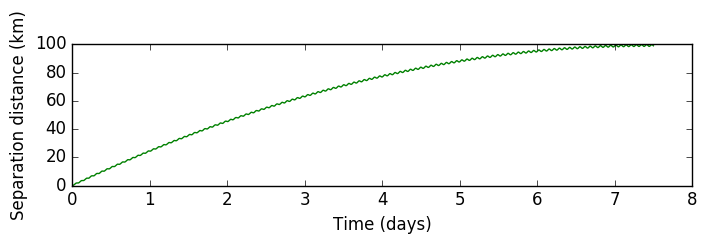
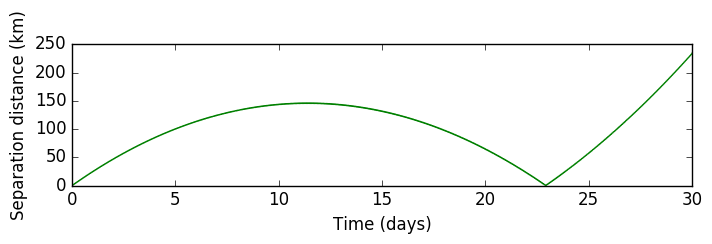
Updating orientation strings to use orbitspeak

diff --git a/diff_drag.py b/diff_drag.py
@@ -18,7 +18,7 @@ import atexit
 r_earth = 6371009 # [m]
 
 # Initial altitude
-altitude_0 = 490 * 1000 # [m]
+altitude_0 = 600 * 1000 # [m]
 
 # TODO: Currently assumes orbit starts at periapsis
 # Periapsis
@@ -26,7 +26,7 @@ r_peri = altitude_0 + r_earth
 
 # TODO: Currently assumes orbit starts at periapsis
 # Orbital elements
-orbital_e = 0.002                                                   # Eccentricity [unitless]
+orbital_e = 0.0                                                 # Eccentricity [unitless]
 orbital_i = 28.0                                                    # Inclination [deg]
 orbital_a = r_peri * (1 + ((1 + orbital_e)/(1 - orbital_e)))/2.0    # Semi-major axis [m]
 #orbital_Omega                                                      # unimplemented
@@ -86,7 +86,7 @@ def run_simulation(# Time step, in seconds.
                    t0 = 2457467.50, # [days] - yes, it's dumb, but it's standard
 
                    # Final time (difference)
-                   tf = 5 * 86400, # [s]
+                   tf = 30 * 86400, # [s]
 
                    # Coefficient of drag.
                    Cd = 2,
@@ -119,13 +119,15 @@ def run_simulation(# Time step, in seconds.
 
                    # Orientation mode for the first satellite.
                    # t: Target (i.e. the other satellite)
-                   # r: Radial
+                   # z: Zenith
+                   # n: Nadir
                    # p: Prograde
+                   # r: Retrograde
                    # s: Sun-facing
-                   first_orientation = "p",
+                   first_orientation = "r",
 
                    # Orientation mode for the second satellite.
-                   second_orientation = "r"
+                   second_orientation = "z"
                    ):
     #initial = time.time()
     process = Popen(['./jmdt'], bufsize=-1,

diff --git a/jmdt.cpp b/jmdt.cpp
@@ -58,17 +58,21 @@ StateVector func(StateVector x, double t, IntegratorParams* params) {
 			Vector3d diff(rtgtv[0]-rvec[0], rtgtv[1]-rvec[1], rtgtv[2]-rvec[2]);
 			if (diff.squaredNorm() > 100000.0*100000.0) {
 				params->orientation_str = "p";
-			}	
+			}
 		}
 		if ((params->orientation_str == "t")
 			&& (params->lover != NULL)) {
 			StateVector rtgt = *(params->lover);
 			Vector3d tgt(rtgt[0], rtgt[1], rtgt[2]);
 			params->orientation = tgt-rvec;
-		} else if ((params->orientation_str == "r") || ((params->orientation_str == "c1") && (params->lover != NULL))) {
+		} else if (params->orientation_str == "z") || ((params->orientation_str == "c1") && (params->lover != NULL)) {
 			params->orientation = rvec;
+		} else if (params->orientation_str == "n") {
+			params->orientation = -rvec;
 		} else if ((params->orientation_str == "p") || ((params->orientation_str == "c2") && (params->lover != NULL))) {
 			params->orientation = vec;
+		} else if (params->orientation_str == "r") {
+			params->orientation = -vec;
 		} else { // look at the Sun
 			params->orientation = rsun;
 		}
